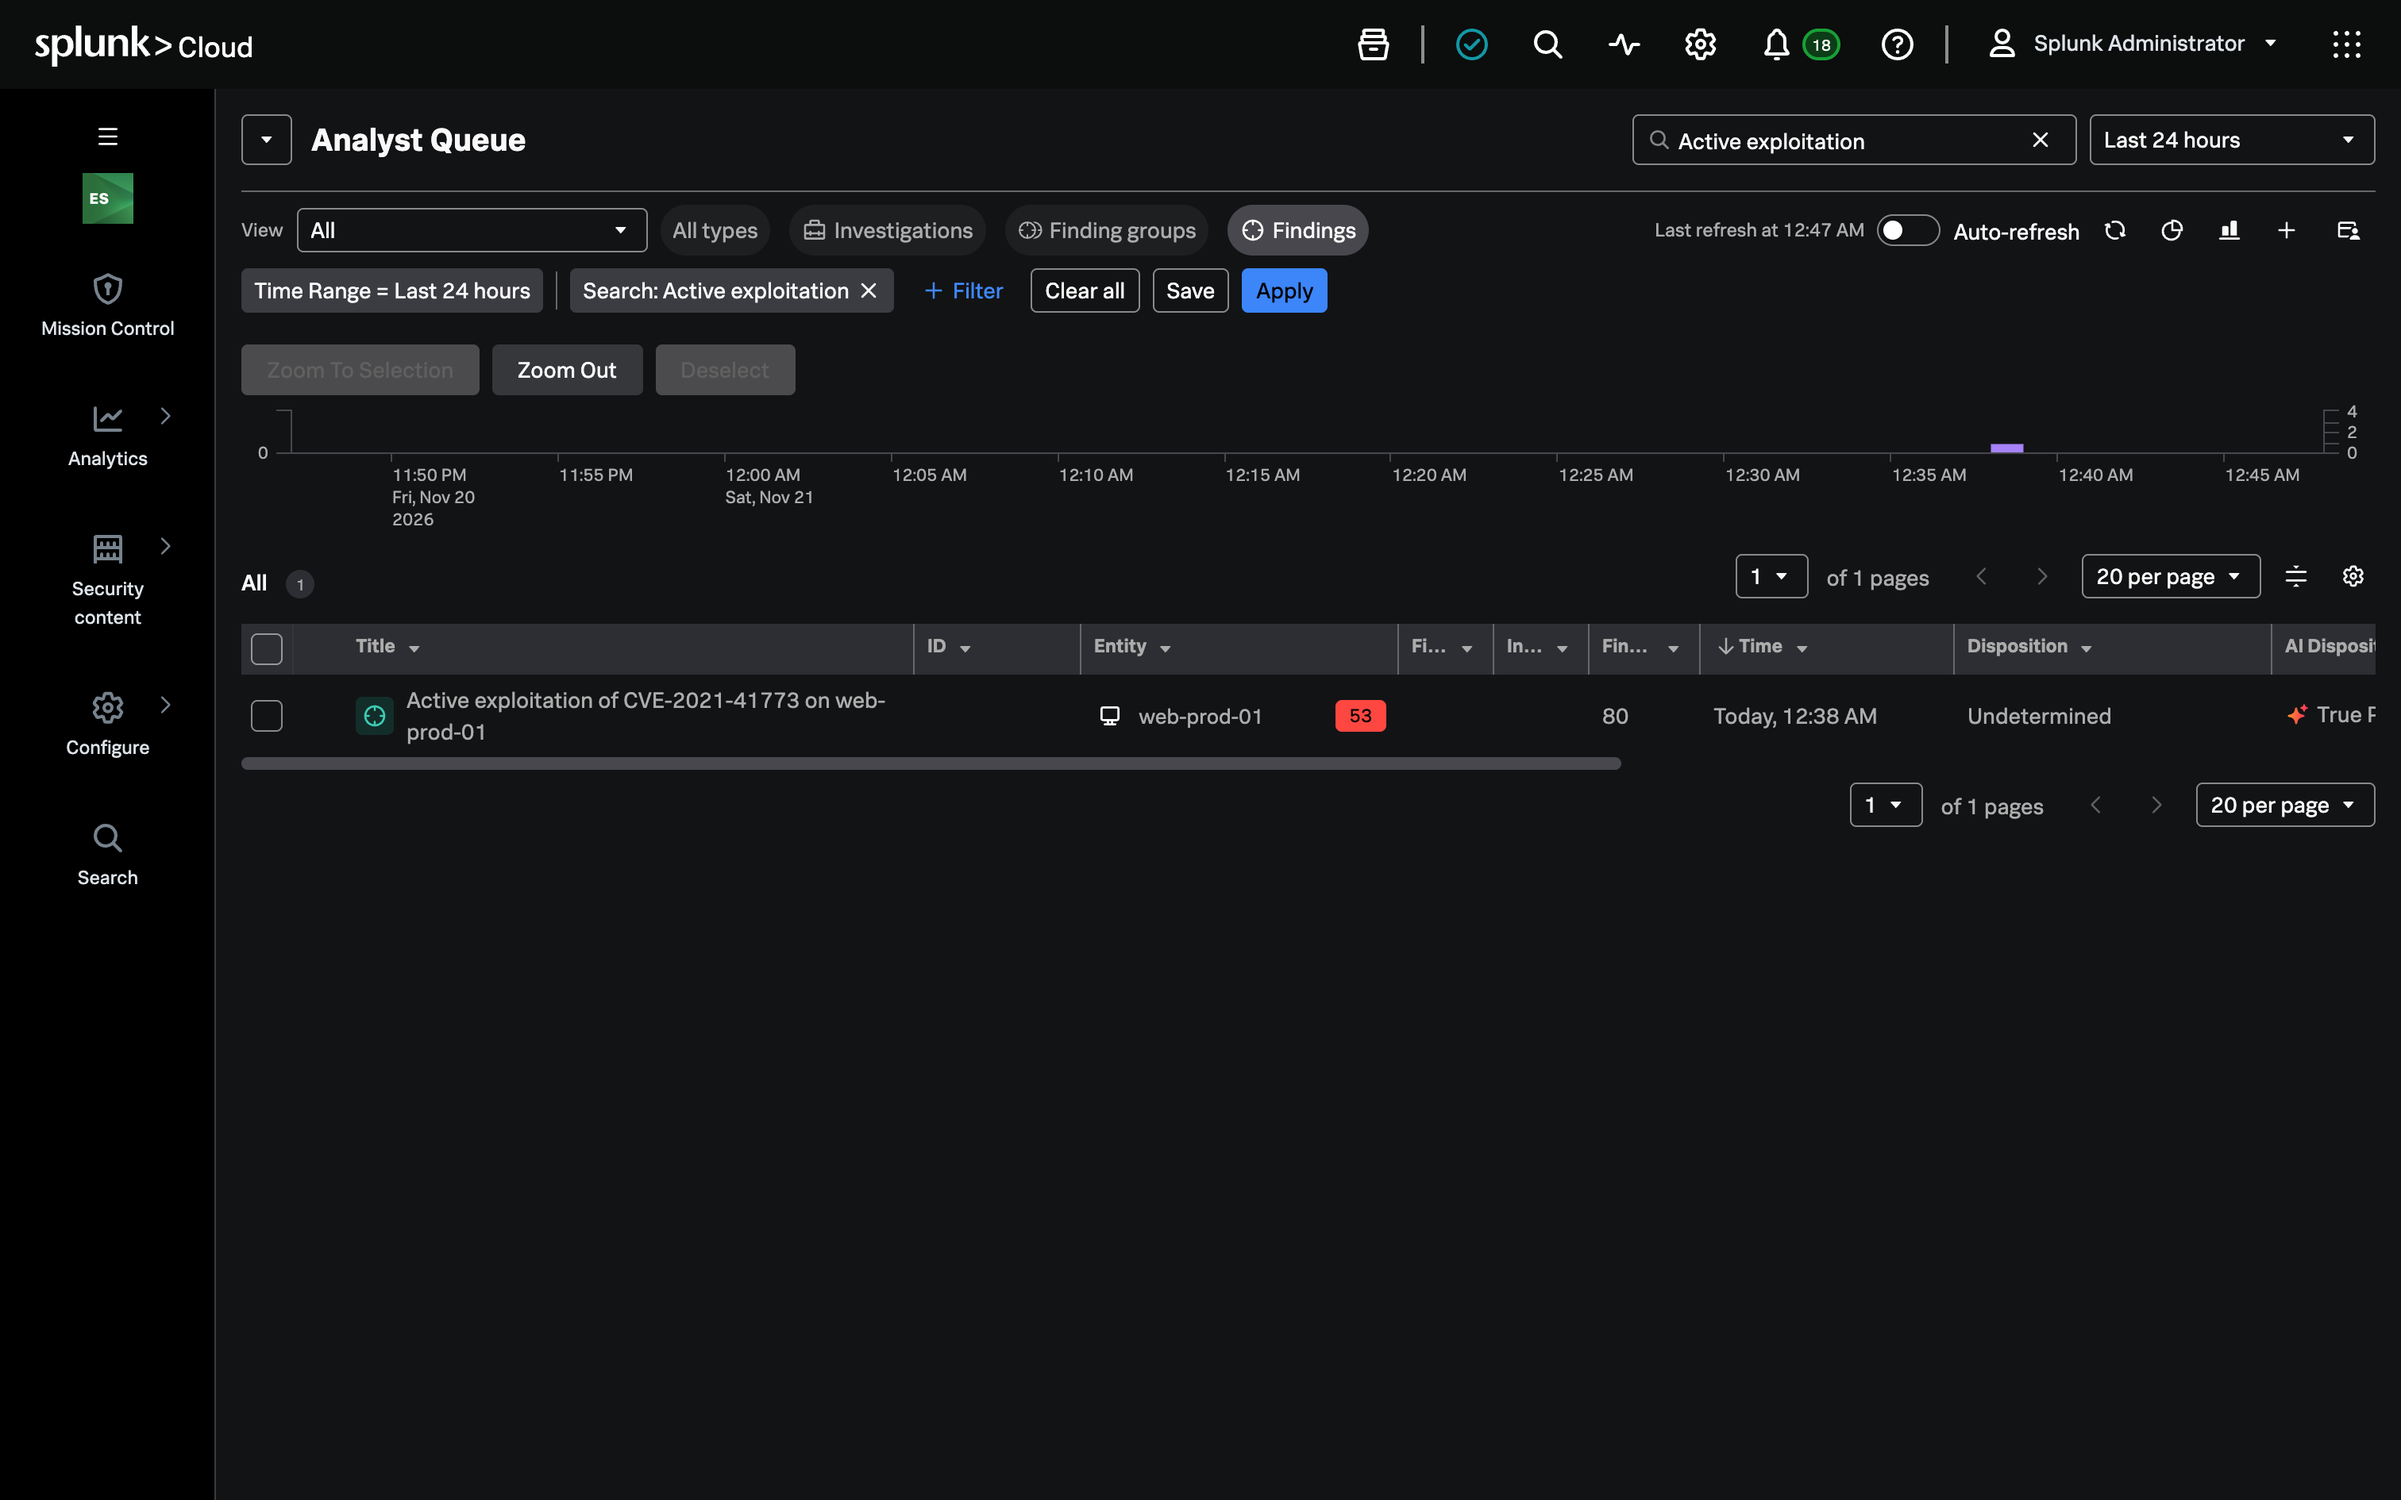
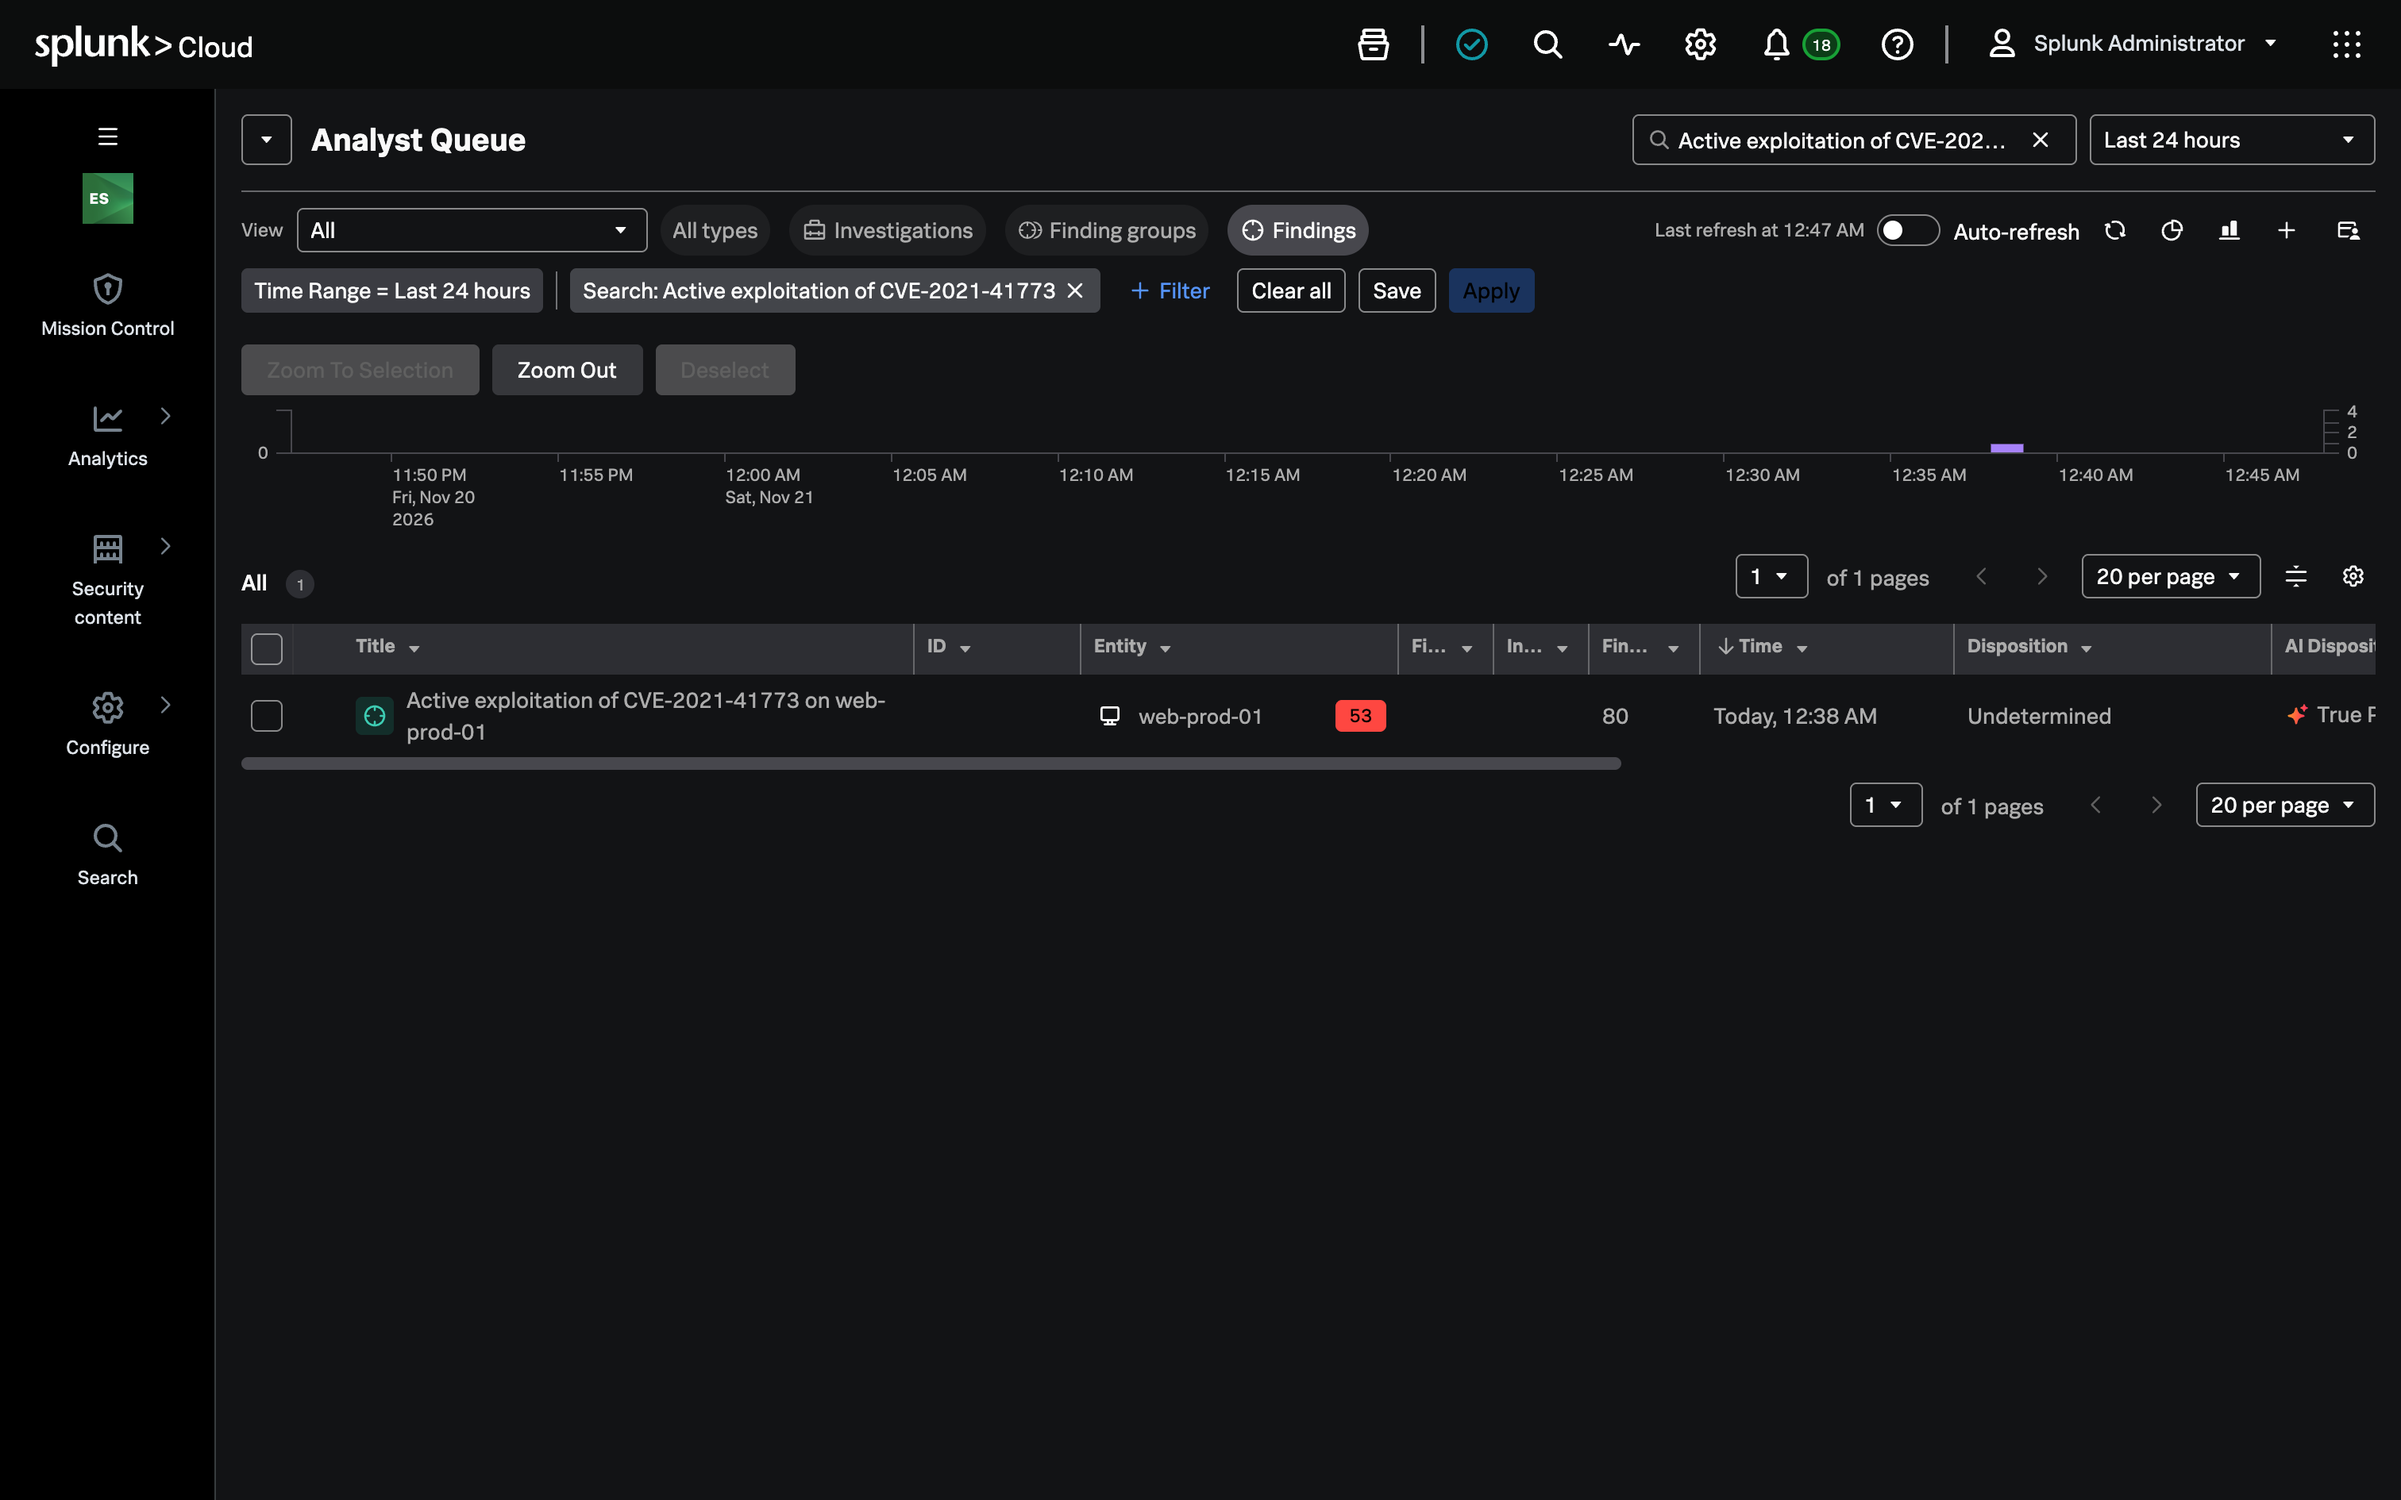
Agentic Patch Ops: Lab 1.2 full-title search, Lab 5.2 one click per screenshot
Navattic review 5qmzZfFYJZcZTr4J5iGdLv, decided 2026-11-24:
- IM01 A: Lab 1.2.2 searches the queue for "Active exploitation of
  CVE-2021-41773" (on an ES 8.8 Show stack "Active exploitation" also
  matches the template's risk findings: 31 of 77). image-605 shows the
  full-title search.
- IM04: the Finding paragraph says to scroll the table right for Status
  and Owner.
- IM02: Lab 5.2.1's three actions are three steps, each under its own
  screenshot (image-652 details hidden, image-653 the older run).

Changed region(s): [[0.3419, 0.1561, 0.6528, 0.2185]]

diff --git a/content/workshops/agentic-patch-ops/03-lab-1-attack-and-detect.md b/content/workshops/agentic-patch-ops/03-lab-1-attack-and-detect.md
@@ -80,13 +80,13 @@ Click on **Mission Control**.
 
 ![Analyst Queue](/images/image-605.png)
 
-Type **Active exploitation** in the search box at the top right of the Analyst Queue and press Enter, then click on **Findings**.
+Type **Active exploitation of CVE-2021-41773** in the search box at the top right of the Analyst Queue and press Enter, then click on **Findings**.
 
 The Analyst Queue is where detections become casework: every finding and investigation waits here for a person to own and resolve it.
 
 Filters — The search, the type and the time range narrow the queue to one kind of finding. In a busy SOC, this is how an analyst works one incident without the noise of the rest.
 
-Finding — The title names the exploited CVE and the server, the entity is the server under attack, and the score is the finding's risk. Status New and Owner unassigned mean nobody has picked it up yet.
+Finding — The title names the exploited CVE and the server, the entity is the server under attack, and the score is the finding's risk. Scroll the table right: Status New and Owner unassigned mean nobody has picked it up yet.
 
 AI Disposition — The AI SOC analyst's verdict, filled in on its own once its triage finishes. The analyst knows where to start before reading a single event.
 

diff --git a/content/workshops/agentic-patch-ops/07-lab-5-close-the-loop.md b/content/workshops/agentic-patch-ops/07-lab-5-close-the-loop.md
@@ -70,7 +70,15 @@ Runs — One entry per action, the newest first: dana.lee's run and ravi.patel's
 
 Run details — The connector, the parameters and PatchBot's summary, then the full result. The record holds the action's evidence, not only its status.
 
-Click on the arrow at the top right to hide the investigation details, then click on the older **AI-SOC-Analyst_PatchBot_patch-servers** run, ravi.patel's. Scroll its result down to **operator**.
+Click on the arrow at the top right to hide the investigation details.
+
+![Runs with the details hidden](/images/image-652.png)
+
+Click on the older **AI-SOC-Analyst_PatchBot_patch-servers** run, ravi.patel's.
+
+![ravi.patel's run](/images/image-653.png)
+
+Scroll its result down to **operator**.
 
 #### 5.2.2 Read Who and What Was Checked
 
